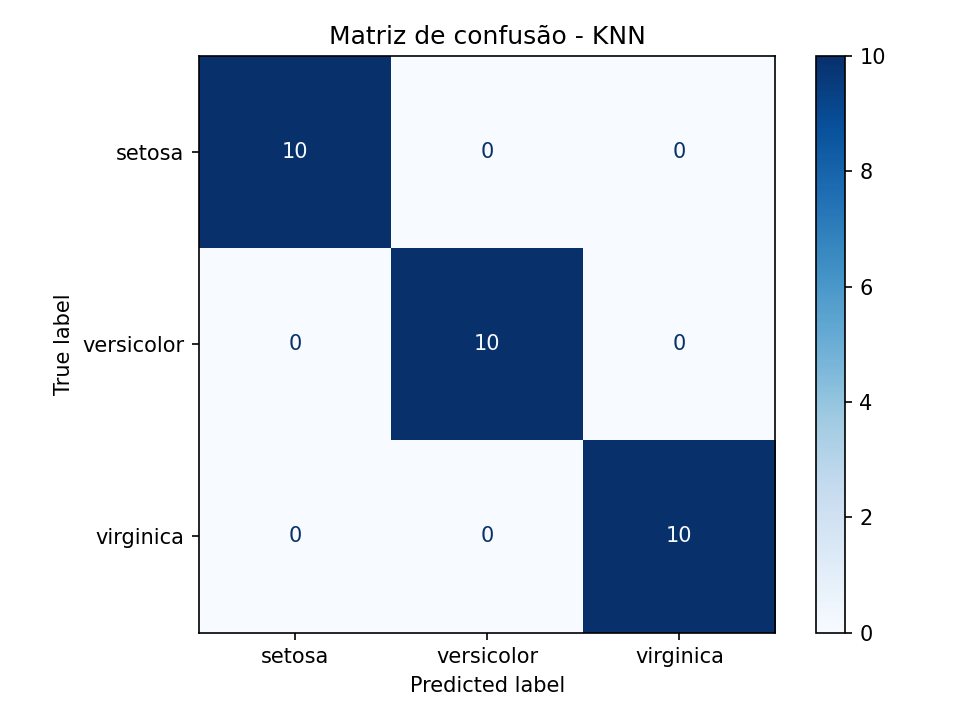
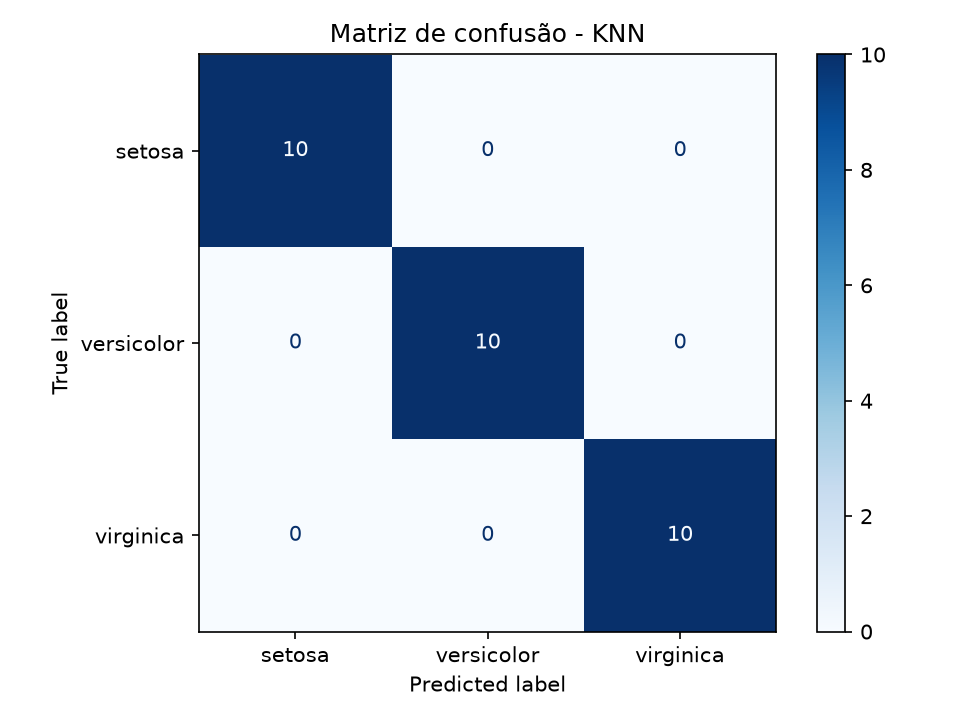
Atualiza projeto Iris ML

diff --git a/src/donwload_data.py b/src/donwload_data.py
@@ -1,0 +1,32 @@
+from pathlib import Path
+
+import pandas as pd
+from sklearn.datasets import load_iris
+
+BASE_DIR = Path(__file__).resolve().parent.parent
+DATA_DIR = BASE_DIR / "data"
+DATA_PATH = DATA_DIR / "iris.csv"
+
+iris = load_iris(as_frame=True)
+
+df = iris.frame.copy()
+
+df = df.rename(columns={
+    "sepal length (cm)": "sepal_length_cm",
+    "sepal width (cm)": "sepal_width_cm",
+    "petal length (cm)": "petal_length_cm",
+    "petal width (cm)": "petal_width_cm",
+    "target": "target",
+})
+
+df["species"] = df["target"].map({
+    0: "setosa",
+    1: "versicolor",
+    2: "virginica",
+})
+
+DATA_DIR.mkdir(exist_ok=True)
+
+df.to_csv(DATA_PATH, index=False)
+
+print(f"Dataset salvo em: {DATA_PATH}")

diff --git a/README.md b/README.md
@@ -1,27 +1,31 @@
 # Iris ML
 
-Projeto de classificação de espécies de flores utilizando técnicas de Machine Learning.
+Projeto de Machine Learning para classificação de espécies de flores do conjunto de dados Iris a partir de características da sépala e da pétala.
 
-O objetivo é analisar o conjunto de dados Iris e construir modelos capazes de identificar a espécie de uma flor a partir de medidas da sépala e da pétala.
+## Objetivo
+
+O objetivo do projeto é aplicar um fluxo básico de aprendizado supervisionado, passando pela obtenção dos dados, análise exploratória, treinamento de diferentes algoritmos de classificação, avaliação dos resultados e utilização do melhor modelo para realizar novas previsões.
 
 ## Dataset
 
-O projeto utiliza o Iris Dataset, composto por 150 amostras distribuídas entre três espécies:
+Foi utilizado o conjunto de dados Iris disponibilizado pelo `scikit-learn`.
 
-- Iris setosa
-- Iris versicolor
-- Iris virginica
+A base possui 150 amostras divididas igualmente entre três espécies:
 
-Cada registro possui quatro atributos:
+- `setosa`
+- `versicolor`
+- `virginica`
 
-- comprimento da sépala
-- largura da sépala
-- comprimento da pétala
-- largura da pétala
+Cada amostra possui quatro características:
 
-Fonte original: UCI Machine Learning Repository.
+- comprimento da sépala;
+- largura da sépala;
+- comprimento da pétala;
+- largura da pétala.
 
-## Tecnologias
+O arquivo `src/download_data.py` carrega a base pelo `scikit-learn`, organiza os nomes das colunas e gera o arquivo `data/iris.csv`.
+
+## Tecnologias utilizadas
 
 - Python
 - Pandas
@@ -29,7 +33,7 @@ Fonte original: UCI Machine Learning Repository.
 - Scikit-learn
 - Joblib
 
-## Estrutura
+## Estrutura do projeto
 
 ```text
 iris-ml/
@@ -43,6 +47,7 @@ iris-ml/
 │   ├── model_comparison.csv
 │   └── petalas_por_especie.png
 ├── src/
+│   ├── download_data.py
 │   ├── exploration.py
 │   ├── predict.py
 │   └── train.py
@@ -51,28 +56,112 @@ iris-ml/
 └── requirements.txt
 ```
 
-## Etapas do projeto
+## Funcionamento
 
-1. Leitura e inspeção do conjunto de dados.
-2. Verificação de valores ausentes e distribuição das classes.
-3. Análise exploratória das variáveis.
-4. Separação dos dados em treino e teste.
-5. Treinamento de três algoritmos de classificação.
-6. Comparação das acurácias.
-7. Seleção e armazenamento do melhor modelo.
-8. Classificação de novas amostras.
+O projeto foi dividido em quatro etapas principais.
 
-## Modelos utilizados
+### 1. Obtenção dos dados
+
+Execute:
+
+```bash
+python src/download_data.py
+```
+
+O script utiliza `load_iris()` do `scikit-learn` e salva a base em:
+
+```text
+data/iris.csv
+```
+
+### 2. Análise exploratória
+
+Execute:
+
+```bash
+python src/exploration.py
+```
+
+Nesta etapa são verificados:
+
+- primeiras linhas da base;
+- tipos das variáveis;
+- valores ausentes;
+- distribuição das espécies;
+- estatísticas descritivas.
+
+Também são gerados gráficos na pasta `results/`.
+
+### 3. Treinamento e avaliação
+
+Execute:
+
+```bash
+python src/train.py
+```
+
+Os dados são separados em 80% para treinamento e 20% para teste, mantendo a proporção entre as três espécies.
 
 Foram comparados três algoritmos:
 
-- K-Nearest Neighbors
-- Decision Tree
-- Random Forest
+- K-Nearest Neighbors (KNN);
+- Decision Tree;
+- Random Forest.
 
-O conjunto de dados é dividido em 80% para treino e 20% para teste, utilizando divisão estratificada para manter a proporção das espécies.
+A avaliação utiliza acurácia, precision, recall, F1-score e matriz de confusão.
 
-## Como executar
+Na execução utilizada neste projeto, os resultados obtidos foram:
+
+| Modelo        | Acurácia |
+| ------------- | -------: |
+| KNN           |     100% |
+| Decision Tree |   93,33% |
+| Random Forest |      90% |
+
+Os resultados podem variar caso sejam alterados os parâmetros ou a forma de divisão dos dados.
+
+O modelo com melhor desempenho é salvo em:
+
+```text
+models/best_model.joblib
+```
+
+### 4. Previsão de novas amostras
+
+Após o treinamento, execute:
+
+```bash
+python src/predict.py
+```
+
+O programa solicitará quatro medidas, em centímetros:
+
+```text
+Comprimento da sépala
+Largura da sépala
+Comprimento da pétala
+Largura da pétala
+```
+
+Exemplo:
+
+```text
+5.1
+3.5
+1.4
+0.2
+```
+
+Para valores com esse perfil, o modelo tende a classificar a amostra como `setosa`.
+
+## Como executar o projeto
+
+Clone o repositório e entre na pasta:
+
+```bash
+git clone URL_DO_REPOSITORIO
+cd iris-ml
+```
 
 Crie um ambiente virtual:
 
@@ -98,39 +187,37 @@ Instale as dependências:
 pip install -r requirements.txt
 ```
 
-Execute a análise exploratória:
+Depois execute os scripts na seguinte ordem:
 
 ```bash
+python src/download_data.py
 python src/exploration.py
-```
-
-Treine e compare os modelos:
-
-```bash
 python src/train.py
-```
-
-Depois do treinamento, execute uma previsão:
-
-```bash
 python src/predict.py
 ```
 
-Informe as quatro medidas solicitadas pelo programa.
+## Resultados gerados
 
-## Exemplo
+A pasta `results/` contém:
 
-Uma amostra com valores:
+- distribuição das variáveis;
+- relação entre comprimento e largura das pétalas;
+- comparação de desempenho dos modelos;
+- matriz de confusão do modelo selecionado.
 
-```text
-Comprimento da sépala: 5.1
-Largura da sépala: 3.5
-Comprimento da pétala: 1.4
-Largura da pétala: 0.2
-```
+## Conceitos aplicados
 
-deve ser classificada como uma flor próxima ao padrão da espécie setosa.
+Durante o desenvolvimento foram aplicados conceitos de:
 
-## Objetivo acadêmico
+- análise exploratória de dados;
+- aprendizado supervisionado;
+- classificação;
+- divisão entre treino e teste;
+- comparação de algoritmos;
+- métricas de avaliação;
+- persistência de modelos;
+- inferência com novos dados.
 
-O projeto foi desenvolvido para aplicar conceitos fundamentais de aprendizado supervisionado, incluindo preparação de dados, classificação, comparação de algoritmos, avaliação de desempenho e uso de um modelo treinado para realizar novas previsões.
+## Autor
+
+Victor Mendes
